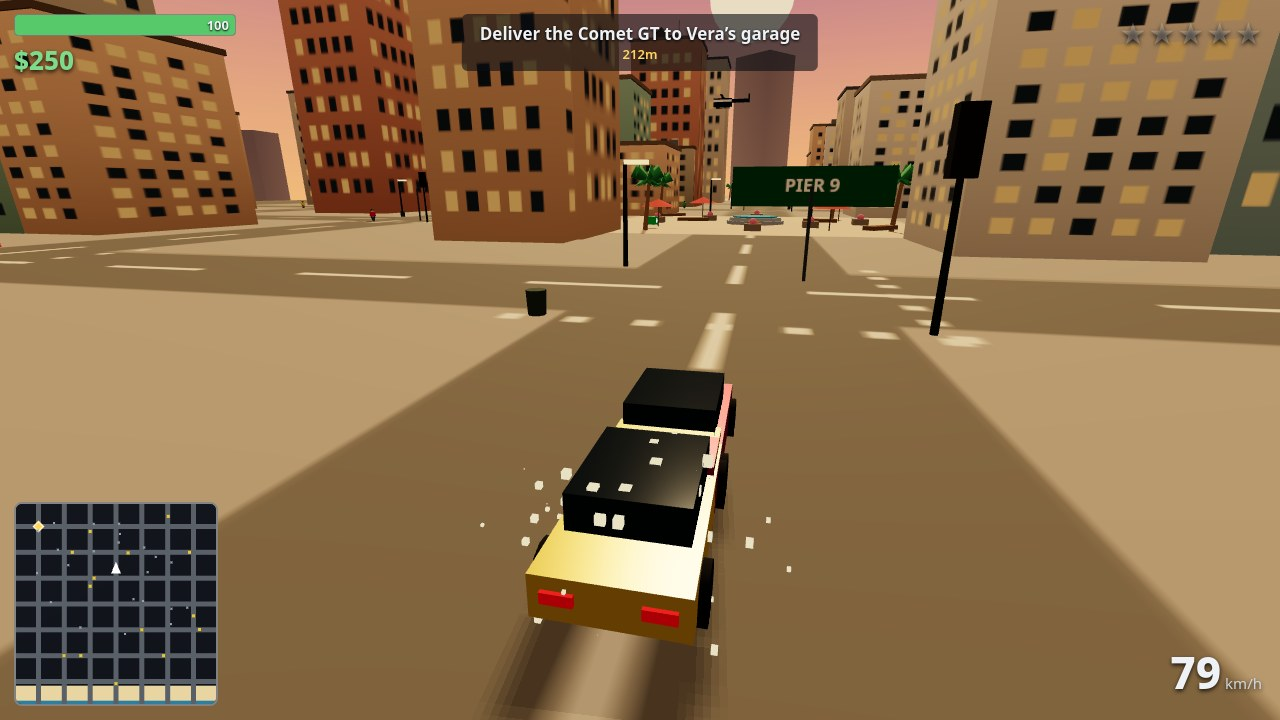
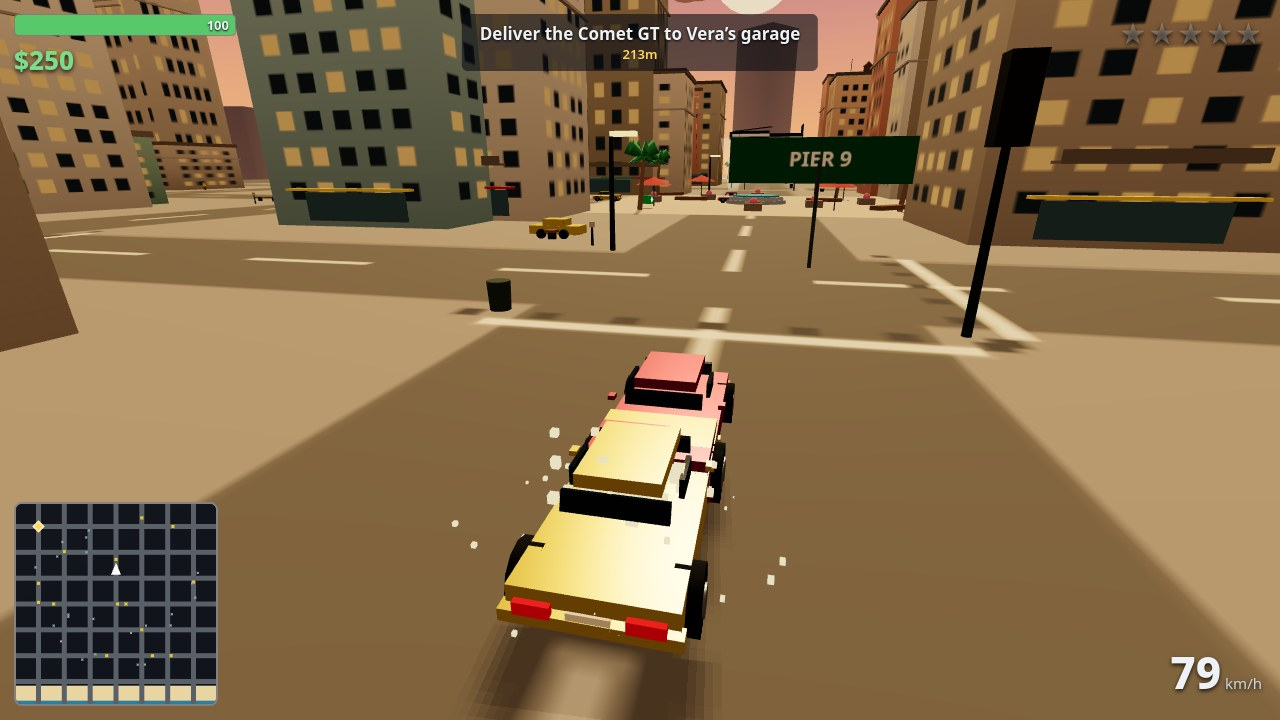
Visual detail pass: detailed cars, richer buildings/streets, bigger helicopter
- vehicles: layered car bodies, glass cabin panels, grille, hubs,
  mirrors, plates; police door stripes
- world: crosswalks, stop lines, curbs, manholes; facade variety,
  shopfront awnings, rooftop units; denser street props (signals,
  lamps, hydrants, bins, parked cars, more pedestrians); more clouds,
  skyline silhouette; helicopter enlarged 1.45x with cockpit, tail
  rotor, searchlight; fixed hover positions for staged shots
- main: closer chase cam (dist 7->6), helicopter staging for shots
- gameplay untouched; verify.js 30/30, draw calls 171

diff --git a/game/src/world.js b/game/src/world.js
@@ -106,6 +106,26 @@ function groundTexture(rng) {
       g.fillRect(toPx(s) - 1.5, toPx(d), 3, 8 * S);
     }
   }
+  // Stop bars, dark utility covers and fine asphalt repairs make the road
+  // surface read as paved city infrastructure without adding draw calls.
+  g.fillStyle = 'rgba(244,238,218,0.9)';
+  for (const sx of [-62, 0, 62]) {
+    for (const sz of [-62, 0, 62]) {
+      g.fillRect(toPx(sx - 8), toPx(sz - 10), 16 * S, 0.8 * S);
+      g.fillRect(toPx(sx - 10), toPx(sz - 8), 0.8 * S, 16 * S);
+    }
+  }
+  for (const [mx, mz] of [[-31, -62], [31, 0], [62, 31], [0, 124], [-124, 62], [124, -124]]) {
+    g.fillStyle = '#514f4a';
+    g.beginPath(); g.ellipse(toPx(mx), toPx(mz), 1.1 * S, 0.65 * S, 0, 0, Math.PI * 2); g.fill();
+    g.strokeStyle = '#8d887c'; g.lineWidth = 2;
+    g.beginPath(); g.ellipse(toPx(mx), toPx(mz), 0.8 * S, 0.43 * S, 0, 0, Math.PI * 2); g.stroke();
+  }
+  g.strokeStyle = 'rgba(48,48,45,0.28)';
+  g.lineWidth = 2;
+  for (const [x, z, dx, dz] of [[-90, -62, 5, 1], [26, 0, -3, 2], [62, 95, 4, -2], [156, -124, -5, 1], [-186, 62, 3, 2]]) {
+    g.beginPath(); g.moveTo(toPx(x), toPx(z)); g.lineTo(toPx(x + dx), toPx(z + dz)); g.lineTo(toPx(x + dx + 1), toPx(z + dz + 2)); g.stroke();
+  }
   // Crosswalk stripes at the four main intersections.
   for (const sx of [-62, 0, 62]) {
     for (const sz of [-62, 0, 62]) {
@@ -241,6 +261,10 @@ export function buildWorld(scene, rng) {
   const skip = new Set(['0,0', '62,62', '-155,-155']);
   const buildingBuckets = new Map(); // key -> { mat, entries }
   const roofBuckets = new Map(); // roof color -> entries
+  const ledgeEntries = [];
+  const balconyEntries = [];
+  const awningBuckets = new Map();
+  const shopGlassEntries = [];
   const acEntries = [];
   const tankEntries = [];
   const tankRoofEntries = [];
@@ -272,6 +296,25 @@ export function buildWorld(scene, rng) {
         const color = rng.pick(PALETTE.building);
         const rows = h < 20 ? 5 : 9;
         buildingMat(color, rows).entries.push({ geo: new THREE.BoxGeometry(w, h, d), x, y: h / 2, z });
+        // A shallow setback at the roof and occasional street-facing balconies
+        // break up the flat block silhouette while staying batched by material.
+        ledgeEntries.push({ geo: new THREE.BoxGeometry(w + 0.9, 0.28, d + 0.9), x, y: h * 0.72, z });
+        if (h > 13 && rng.chance(0.48)) {
+          for (const side of [-1, 1]) {
+            balconyEntries.push({ geo: new THREE.BoxGeometry(w * 0.58, 0.18, 1.45), x, y: Math.min(h - 1.4, 5.4), z: z + side * (d / 2 + 0.7) });
+            balconyEntries.push({ geo: new THREE.BoxGeometry(w * 0.58, 0.7, 0.12), x, y: Math.min(h - 1, 5.8), z: z + side * (d / 2 + 1.35) });
+          }
+        }
+        // Ground-floor shop glazing and striped awnings add a human scale to
+        // the otherwise residential tower blocks.
+        if (h > 12) {
+          for (const side of [-1, 1]) {
+            shopGlassEntries.push({ geo: new THREE.BoxGeometry(w * 0.58, 2.5, 0.08), x, y: 1.75, z: z + side * (d / 2 + 0.06) });
+            const awningColor = rng.pick([0xc23b2e, 0xe8c832, 0x2e8f8a]);
+            if (!awningBuckets.has(awningColor)) awningBuckets.set(awningColor, []);
+            awningBuckets.get(awningColor).push({ geo: new THREE.BoxGeometry(w * 0.68, 0.22, 1.3), x, y: 3.25, z: z + side * (d / 2 + 0.62) });
+          }
+        }
         // Roof cap, merged per roof color.
         const roofColor = rng.pick(PALETTE.roof);
         if (!roofBuckets.has(roofColor)) roofBuckets.set(roofColor, []);
@@ -307,6 +350,10 @@ export function buildWorld(scene, rng) {
     const mesh = mergedMesh(entries, new THREE.MeshStandardMaterial({ color, roughness: 0.95 }), { cast: false });
     group.add(mesh);
   }
+  group.add(mergedMesh(ledgeEntries, new THREE.MeshStandardMaterial({ color: 0xb2a89a, roughness: 0.88 }), { cast: false }));
+  if (balconyEntries.length) group.add(mergedMesh(balconyEntries, new THREE.MeshStandardMaterial({ color: 0x766b60, roughness: 0.8 }), { cast: false }));
+  if (shopGlassEntries.length) group.add(mergedMesh(shopGlassEntries, new THREE.MeshStandardMaterial({ color: 0x49636a, roughness: 0.25, metalness: 0.28, emissive: 0x17282c, emissiveIntensity: 0.25 }), { cast: false }));
+  for (const [color, entries] of awningBuckets) group.add(mergedMesh(entries, new THREE.MeshStandardMaterial({ color, roughness: 0.72 }), { cast: false }));
   if (acEntries.length) group.add(mergedMesh(acEntries, new THREE.MeshStandardMaterial({ color: 0x777777, roughness: 0.9 })));
   if (tankEntries.length) group.add(mergedMesh(tankEntries, new THREE.MeshStandardMaterial({ color: 0x6a4a30, roughness: 1 })));
   if (tankRoofEntries.length) group.add(mergedMesh(tankRoofEntries, new THREE.MeshStandardMaterial({ color: 0x4a3423, roughness: 1 })));
@@ -415,6 +462,45 @@ export function buildWorld(scene, rng) {
     group.add(mergedMesh(poleEntries, new THREE.MeshStandardMaterial({ color: 0x2e3238, roughness: 0.6, metalness: 0.5 })));
     group.add(mergedMesh(housingEntries, new THREE.MeshStandardMaterial({ color: 0x1c1e22, roughness: 0.7 })));
     group.add(mergedMesh(lightEntries, new THREE.MeshStandardMaterial({ color: 0x58c96b, emissive: 0x2fae4e, emissiveIntensity: 1.2 })));
+  }
+
+  // Meter posts and benches add curbside detail in a few batched meshes.
+  {
+    const posts = [];
+    const heads = [];
+    const seats = [];
+    const legs = [];
+    for (const [x, z] of [[-52, -18], [-52, 18], [10, -52], [-18, 52], [74, -18], [74, 18], [136, -52], [-136, 52], [198, -18], [-198, 18]]) {
+      posts.push({ geo: new THREE.CylinderGeometry(0.07, 0.1, 1.25, 7), x, y: 0.63, z });
+      heads.push({ geo: new THREE.BoxGeometry(0.32, 0.38, 0.24), x, y: 1.42, z });
+    }
+    for (const [x, z, ry] of [[-48, -12, 0], [-48, 12, 0], [14, -48, Math.PI / 2], [-14, 48, Math.PI / 2], [78, -12, 0], [78, 12, 0], [140, -48, Math.PI / 2], [-140, 48, Math.PI / 2]]) {
+      seats.push({ geo: new THREE.BoxGeometry(3.8, 0.18, 0.82), x, y: 0.62, z, ry });
+      for (const off of [-1.35, 1.35]) legs.push({ geo: new THREE.BoxGeometry(0.18, 0.58, 0.62), x: x + Math.cos(ry) * off, y: 0.3, z: z - Math.sin(ry) * off, ry });
+    }
+    group.add(mergedMesh(posts, new THREE.MeshStandardMaterial({ color: 0x50565a, roughness: 0.55, metalness: 0.65 })));
+    group.add(mergedMesh(heads, new THREE.MeshStandardMaterial({ color: 0xd8d1bd, roughness: 0.45, metalness: 0.35 })));
+    group.add(mergedMesh(seats, new THREE.MeshStandardMaterial({ color: 0x765438, roughness: 0.9 })));
+    group.add(mergedMesh(legs, new THREE.MeshStandardMaterial({ color: 0x35383a, roughness: 0.7, metalness: 0.4 })));
+  }
+
+  // Parked cars fill curb lanes while leaving the traffic and collision grids alone.
+  {
+    const paints = new Map([[0xc23b2e, []], [0xe8c832, []], [0x2e6fc2, []], [0xd8d8d8, []]]);
+    const windows = [];
+    const tires = [];
+    const wheelGeo = new THREE.CylinderGeometry(0.36, 0.36, 0.28, 10);
+    wheelGeo.rotateZ(Math.PI / 2);
+    for (const [x, z, color, ry] of [[-48, -13, 0xc23b2e, 0], [-48, 13, 0x2e6fc2, Math.PI], [14, -48, 0xe8c832, Math.PI / 2], [76, 13, 0xd8d8d8, Math.PI], [138, -48, 0xc23b2e, Math.PI / 2], [-138, 48, 0x2e6fc2, -Math.PI / 2]]) {
+      const add = (entries, geo, px, py, pz) => entries.push({ geo, x: px, y: py, z: pz, ry });
+      add(paints.get(color), new THREE.BoxGeometry(1.85, 0.62, 4), x, 0.62, z);
+      add(paints.get(color), new THREE.BoxGeometry(1.48, 0.5, 1.8), x, 1.17, z - 0.15);
+      add(windows, new THREE.BoxGeometry(1.32, 0.3, 1.55), x, 1.2, z - 0.15);
+      for (const side of [-1, 1]) for (const end of [-1, 1]) add(tires, wheelGeo, x + side * 0.9, 0.38, z + end * 1.25);
+    }
+    for (const [color, entries] of paints) group.add(mergedMesh(entries, new THREE.MeshStandardMaterial({ color, roughness: 0.34, metalness: 0.42 })));
+    group.add(mergedMesh(windows, new THREE.MeshStandardMaterial({ color: 0x293c49, roughness: 0.18, metalness: 0.4 })));
+    group.add(mergedMesh(tires, new THREE.MeshStandardMaterial({ color: 0x17191c, roughness: 0.95 })));
   }
 
   // Fire hydrants and trash cans on sidewalk corners, merged.
@@ -569,15 +655,15 @@ export function buildWorld(scene, rng) {
   // Clouds: one InstancedMesh of a 3-puff blob, drifting with the wind.
   const cloudMat = new THREE.MeshStandardMaterial({ color: 0xffd9c0, roughness: 1, transparent: true, opacity: 0.85 });
   const puffGeos = [];
-  for (let j = 0; j < 3; j += 1) {
-    puffGeos.push(xform(new THREE.SphereGeometry(rng.range(4, 8), 10, 8), j * 6 - 6, rng.range(-1, 1), rng.range(-2, 2), 0, 0, 0, 1, 0.45, 1));
+  for (let j = 0; j < 4; j += 1) {
+    puffGeos.push(xform(new THREE.SphereGeometry(rng.range(5, 10), 10, 8), j * 6 - 9, rng.range(-1, 1), rng.range(-2, 2), 0, 0, 0, 1, 0.42, 1));
   }
   const cloudGeo = mergeGeometries(puffGeos);
-  const clouds = new THREE.InstancedMesh(cloudGeo, cloudMat, 10);
+  const clouds = new THREE.InstancedMesh(cloudGeo, cloudMat, 16);
   const cloudPos = [];
   const _m4 = new THREE.Matrix4();
-  for (let i = 0; i < 10; i += 1) {
-    const p = { x: rng.range(-200, 200), y: rng.range(55, 80), z: rng.range(-200, 200) };
+  for (let i = 0; i < 16; i += 1) {
+    const p = { x: rng.range(-220, 220), y: rng.range(58, 92), z: rng.range(-220, 220) };
     cloudPos.push(p);
     _m4.makeTranslation(p.x, p.y, p.z);
     clouds.setMatrixAt(i, _m4);
@@ -599,27 +685,41 @@ export function buildWorld(scene, rng) {
   // the chase/mission shots by stageShot). Seven meshes; the rotor spins.
   const heli = new THREE.Group();
   const heliMat = new THREE.MeshStandardMaterial({ color: 0x1c2a44, roughness: 0.5, metalness: 0.4 });
-  const heliBody = new THREE.Mesh(new THREE.BoxGeometry(4.2, 1.6, 2.2), heliMat);
+  const heliBody = new THREE.Mesh(new THREE.BoxGeometry(5.8, 1.8, 2.5), heliMat);
   heli.add(heliBody);
-  const heliStripe = new THREE.Mesh(new THREE.BoxGeometry(4.3, 0.5, 2.3), new THREE.MeshStandardMaterial({ color: 0xf2f2f2, roughness: 0.6 }));
+  const heliStripe = new THREE.Mesh(new THREE.BoxGeometry(5.9, 0.42, 2.58), new THREE.MeshStandardMaterial({ color: 0xf2f2f2, roughness: 0.6 }));
   heliStripe.position.y = 0.25;
   heli.add(heliStripe);
-  const heliTail = new THREE.Mesh(new THREE.BoxGeometry(4.5, 0.7, 0.7), heliMat);
-  heliTail.position.set(-4, 0.3, 0);
+  const cockpit = new THREE.Mesh(new THREE.BoxGeometry(1.55, 1.05, 2.36), new THREE.MeshStandardMaterial({ color: 0x24495a, roughness: 0.16, metalness: 0.45, emissive: 0x10232a, emissiveIntensity: 0.25 }));
+  cockpit.position.set(2.6, 0.24, 0);
+  heli.add(cockpit);
+  const heliTail = new THREE.Mesh(new THREE.BoxGeometry(5.8, 0.48, 0.58), heliMat);
+  heliTail.position.set(-5.3, 0.3, 0);
   heli.add(heliTail);
   const heliFin = new THREE.Mesh(new THREE.BoxGeometry(0.3, 1.6, 1.2), heliMat);
-  heliFin.position.set(-6.1, 0.9, 0);
+  heliFin.position.set(-8, 0.9, 0);
   heli.add(heliFin);
-  const heliRotor = new THREE.Mesh(new THREE.BoxGeometry(9, 0.12, 0.5), new THREE.MeshStandardMaterial({ color: 0x222222, roughness: 0.4, metalness: 0.6 }));
-  heliRotor.position.y = 1.1;
+  const heliRotor = new THREE.Mesh(new THREE.BoxGeometry(12, 0.1, 0.42), new THREE.MeshStandardMaterial({ color: 0x222222, roughness: 0.4, metalness: 0.6 }));
+  heliRotor.position.y = 1.2;
   heli.add(heliRotor);
-  const heliSkidL = new THREE.Mesh(new THREE.BoxGeometry(3.4, 0.12, 0.25), heliMat);
-  heliSkidL.position.set(0, -1.05, 0.9);
+  const tailRotor = new THREE.Mesh(new THREE.BoxGeometry(0.12, 2.2, 0.12), new THREE.MeshStandardMaterial({ color: 0x222222, roughness: 0.45, metalness: 0.5 }));
+  tailRotor.position.set(-8.1, 0.8, 0);
+  heli.add(tailRotor);
+  const heliSkidL = new THREE.Mesh(new THREE.BoxGeometry(4.4, 0.12, 0.25), heliMat);
+  heliSkidL.position.set(0, -1.15, 1.05);
   heli.add(heliSkidL);
-  const heliSkidR = new THREE.Mesh(new THREE.BoxGeometry(3.4, 0.12, 0.25), heliMat);
-  heliSkidR.position.set(0, -1.05, -0.9);
+  const heliSkidR = new THREE.Mesh(new THREE.BoxGeometry(4.4, 0.12, 0.25), heliMat);
+  heliSkidR.position.set(0, -1.15, -1.05);
   heli.add(heliSkidR);
+  const heliSpot = new THREE.Mesh(new THREE.ConeGeometry(2.5, 12, 12, 1, true), new THREE.MeshBasicMaterial({ color: 0xfff0bd, transparent: true, opacity: 0.22, side: THREE.DoubleSide, depthWrite: false }));
+  heliSpot.position.set(2.4, -6.1, 0);
+  heliSpot.rotation.z = Math.PI;
+  heli.add(heliSpot);
+  const heliLamp = new THREE.Mesh(new THREE.SphereGeometry(0.22, 8, 6), new THREE.MeshBasicMaterial({ color: 0xffefb0 }));
+  heliLamp.position.set(2.7, -0.65, 0);
+  heli.add(heliLamp);
   group.add(heli);
+  heli.scale.setScalar(1.45);
   const heliOrbit = { cx: 0, cz: 0, r: 110, h: 55, angle: 0.6, speed: 0.045 };
 
   return {

diff --git a/game/src/vehicles.js b/game/src/vehicles.js
@@ -13,10 +13,18 @@ import { mergeGeometries, xform } from './merge.js';
 
 // Shared geometries (car-local space, origin at ground centre).
 const BODY_GEO = mergeGeometries([
-  xform(new THREE.BoxGeometry(2, 0.62, 4.4), 0, 0.62, 0),
-  xform(new THREE.BoxGeometry(1.9, 0.18, 1.1), 0, 0.98, 1.55),
+  xform(new THREE.BoxGeometry(1.92, 0.5, 4.25), 0, 0.58, 0),
+  xform(new THREE.BoxGeometry(1.88, 0.24, 1.05), 0, 0.88, 1.55),
+  xform(new THREE.BoxGeometry(1.08, 0.18, 1.48), 0, 1.49, -0.28),
+  xform(new THREE.BoxGeometry(2.02, 0.16, 0.18), 0, 0.53, 2.16),
+  xform(new THREE.BoxGeometry(2.02, 0.16, 0.18), 0, 0.53, -2.16),
 ]);
-const CABIN_GEO = xform(new THREE.BoxGeometry(1.7, 0.58, 2.1), 0, 1.2, -0.25);
+const CABIN_GEO = mergeGeometries([
+  xform(new THREE.BoxGeometry(1.34, 0.27, 0.07), 0, 1.27, 0.57, -0.28),
+  xform(new THREE.BoxGeometry(1.34, 0.27, 0.07), 0, 1.27, -1.12, 0.28),
+  xform(new THREE.BoxGeometry(0.07, 0.27, 0.62), -0.72, 1.27, -0.28),
+  xform(new THREE.BoxGeometry(0.07, 0.27, 0.62), 0.72, 1.27, -0.28),
+]);
 const LIGHTS_GEO = mergeGeometries([
   xform(new THREE.BoxGeometry(0.42, 0.16, 0.08), -0.62, 0.66, 2.22),
   xform(new THREE.BoxGeometry(0.42, 0.16, 0.08), 0.62, 0.66, 2.22),
@@ -25,12 +33,27 @@ const TAILS_GEO = mergeGeometries([
   xform(new THREE.BoxGeometry(0.42, 0.16, 0.08), -0.62, 0.66, -2.22),
   xform(new THREE.BoxGeometry(0.42, 0.16, 0.08), 0.62, 0.66, -2.22),
 ]);
+const GRILLE_GEO = xform(new THREE.BoxGeometry(0.72, 0.22, 0.06), 0, 0.62, 2.18);
+const HUB_GEO = new THREE.CylinderGeometry(0.2, 0.2, 0.36, 12);
+HUB_GEO.rotateZ(Math.PI / 2);
+const MIRROR_GEO = mergeGeometries([
+  xform(new THREE.BoxGeometry(0.12, 0.08, 0.18), -0.99, 1.12, 0.3),
+  xform(new THREE.BoxGeometry(0.12, 0.08, 0.18), 0.99, 1.12, 0.3),
+]);
+const PLATE_GEO = mergeGeometries([
+  xform(new THREE.BoxGeometry(0.48, 0.16, 0.035), 0, 0.62, 2.225),
+  xform(new THREE.BoxGeometry(0.48, 0.16, 0.035), 0, 0.62, -2.225),
+]);
 const WHEEL_GEO = new THREE.CylinderGeometry(0.42, 0.42, 0.34, 12);
 WHEEL_GEO.rotateZ(Math.PI / 2); // axle along x; spin is rotation.x
 const WHEEL_OFFSETS = [[-0.95, 1.45], [0.95, 1.45], [-0.95, -1.45], [0.95, -1.45]];
 const DOORS_GEO = mergeGeometries([
   xform(new THREE.BoxGeometry(0.04, 0.5, 1.9), -1.01, 0.72, -0.2),
   xform(new THREE.BoxGeometry(0.04, 0.5, 1.9), 1.01, 0.72, -0.2),
+]);
+const POLICE_STRIPE_GEO = mergeGeometries([
+  xform(new THREE.BoxGeometry(0.05, 0.12, 1.65), -1.04, 0.8, -0.2),
+  xform(new THREE.BoxGeometry(0.05, 0.12, 1.65), 1.04, 0.8, -0.2),
 ]);
 const LIGHTBAR_GEO = xform(new THREE.BoxGeometry(1.2, 0.16, 0.5), 0, 1.56, -0.25);
 const LIGHTBAR_RED_GEO = xform(new THREE.BoxGeometry(0.55, 0.2, 0.45), -0.3, 1.56, -0.25);
@@ -41,7 +64,11 @@ const GLASS_MAT = new THREE.MeshStandardMaterial({ color: 0x1c2a38, roughness: 0
 const LIGHT_MAT = new THREE.MeshStandardMaterial({ color: 0xfff6c8, emissive: 0xffe9a0, emissiveIntensity: 0.8 });
 const TAIL_MAT = new THREE.MeshStandardMaterial({ color: 0xc02020, emissive: 0x800000, emissiveIntensity: 0.6 });
 const DARK_MAT = new THREE.MeshStandardMaterial({ color: 0x222222, roughness: 0.5 });
+const GRILLE_MAT = new THREE.MeshStandardMaterial({ color: 0x20252a, roughness: 0.55, metalness: 0.35 });
+const HUB_MAT = new THREE.MeshStandardMaterial({ color: 0xc5c7c9, roughness: 0.35, metalness: 0.8 });
+const PLATE_MAT = new THREE.MeshStandardMaterial({ color: 0xe9e1c9, roughness: 0.8 });
 const DOOR_MAT = new THREE.MeshStandardMaterial({ color: 0x14161a, roughness: 0.4, metalness: 0.4 });
+const POLICE_STRIPE_MAT = new THREE.MeshStandardMaterial({ color: 0xe8e1c8, roughness: 0.55 });
 const RED_FLASH_MAT = new THREE.MeshStandardMaterial({ color: 0xff2020, emissive: 0xff0000, emissiveIntensity: 1.5 });
 const BLUE_FLASH_MAT = new THREE.MeshStandardMaterial({ color: 0x2040ff, emissive: 0x0020ff, emissiveIntensity: 1.5 });
 
@@ -56,6 +83,11 @@ export function buildCarMesh(color) {
   const cabin = new THREE.Mesh(CABIN_GEO, GLASS_MAT);
   cabin.castShadow = true;
   group.add(cabin);
+  const grille = new THREE.Mesh(GRILLE_GEO, GRILLE_MAT);
+  group.add(grille);
+  const mirrors = new THREE.Mesh(MIRROR_GEO, bodyMat);
+  group.add(mirrors);
+  group.add(new THREE.Mesh(PLATE_GEO, PLATE_MAT));
   const head = new THREE.Mesh(LIGHTS_GEO, LIGHT_MAT);
   group.add(head);
   const tail = new THREE.Mesh(TAILS_GEO, TAIL_MAT);
@@ -66,6 +98,9 @@ export function buildCarMesh(color) {
     wheel.position.set(wx, 0.42, wz);
     wheel.castShadow = true;
     group.add(wheel);
+    const hub = new THREE.Mesh(HUB_GEO, HUB_MAT);
+    hub.position.set(wx * 1.018, 0.42, wz);
+    group.add(hub);
     wheels.push(wheel);
   }
   group.userData.wheels = wheels;
@@ -78,18 +113,23 @@ export function createCarFleet(scene, capacity = 40, policeCapacity = 8) {
   const bodyMat = new THREE.MeshStandardMaterial({ color: 0xffffff, roughness: 0.35, metalness: 0.55 });
   const body = new THREE.InstancedMesh(BODY_GEO, bodyMat, capacity);
   const cabin = new THREE.InstancedMesh(CABIN_GEO, GLASS_MAT, capacity);
+  const grille = new THREE.InstancedMesh(GRILLE_GEO, GRILLE_MAT, capacity);
+  const mirrors = new THREE.InstancedMesh(MIRROR_GEO, bodyMat, capacity);
+  const plates = new THREE.InstancedMesh(PLATE_GEO, PLATE_MAT, capacity);
   const lights = new THREE.InstancedMesh(LIGHTS_GEO, LIGHT_MAT, capacity);
   const tails = new THREE.InstancedMesh(TAILS_GEO, TAIL_MAT, capacity);
   const wheels = new THREE.InstancedMesh(WHEEL_GEO, WHEEL_MAT, capacity * 4);
+  const hubs = new THREE.InstancedMesh(HUB_GEO, HUB_MAT, capacity * 4);
   const barBase = new THREE.InstancedMesh(LIGHTBAR_GEO, DARK_MAT, policeCapacity);
   const doors = new THREE.InstancedMesh(DOORS_GEO, DOOR_MAT, policeCapacity);
+  const policeStripe = new THREE.InstancedMesh(POLICE_STRIPE_GEO, POLICE_STRIPE_MAT, policeCapacity);
   const red = new THREE.InstancedMesh(LIGHTBAR_RED_GEO, RED_FLASH_MAT, policeCapacity);
   const blue = new THREE.InstancedMesh(LIGHTBAR_BLUE_GEO, BLUE_FLASH_MAT, policeCapacity);
   // The fleet does not cast shadows: the instanced parts self-shadowed
   // (acne) and turned the white police cruisers black in the chase shot.
   // The player's own car (buildCarMesh) and pedestrians still cast, so
   // moving things keep their grounding shadows.
-  for (const m of [body, cabin, lights, tails, wheels, barBase, doors, red, blue]) {
+  for (const m of [body, cabin, grille, mirrors, plates, lights, tails, wheels, hubs, barBase, doors, policeStripe, red, blue]) {
     m.castShadow = false;
     m.instanceMatrix.setUsage(THREE.DynamicDrawUsage);
     scene.add(m);
@@ -120,7 +160,11 @@ export function createCarFleet(scene, capacity = 40, policeCapacity = 8) {
       carMatrix(car);
       body.setMatrixAt(i, _m);
       body.setColorAt(i, _c.setHex(car.color ?? 0xd8d8d8));
+      mirrors.setColorAt(i, _c.setHex(car.color ?? 0xd8d8d8));
       cabin.setMatrixAt(i, _m);
+      grille.setMatrixAt(i, _m);
+      mirrors.setMatrixAt(i, _m);
+      plates.setMatrixAt(i, _m);
       lights.setMatrixAt(i, _m);
       tails.setMatrixAt(i, _m);
       // Wheels: car matrix times the local offset + spin.
@@ -131,6 +175,7 @@ export function createCarFleet(scene, capacity = 40, policeCapacity = 8) {
         _wm.compose(_v, _q, _s);
         _wm.premultiply(_m);
         wheels.setMatrixAt(i * 4 + w, _wm);
+        hubs.setMatrixAt(i * 4 + w, _wm);
       }
     };
     for (const car of trafficCars) writeCar(car);
@@ -141,6 +186,7 @@ export function createCarFleet(scene, capacity = 40, policeCapacity = 8) {
         carMatrix(car);
         barBase.setMatrixAt(p, _m);
         doors.setMatrixAt(p, _m);
+        policeStripe.setMatrixAt(p, _m);
         red.setMatrixAt(p, _m);
         blue.setMatrixAt(p, _m);
         p += 1;
@@ -148,15 +194,21 @@ export function createCarFleet(scene, capacity = 40, policeCapacity = 8) {
     }
     body.count = n;
     cabin.count = n;
+    grille.count = n;
+    mirrors.count = n;
+    plates.count = n;
     lights.count = n;
     tails.count = n;
     wheels.count = n * 4;
+    hubs.count = n * 4;
     barBase.count = p;
     doors.count = p;
     red.count = p;
     blue.count = p;
     if (body.instanceColor) body.instanceColor.needsUpdate = true;
-    for (const m of [body, cabin, lights, tails, wheels, barBase, doors, red, blue]) {
+    if (mirrors.instanceColor) mirrors.instanceColor.needsUpdate = true;
+    policeStripe.count = p;
+    for (const m of [body, cabin, grille, mirrors, plates, lights, tails, wheels, hubs, barBase, doors, policeStripe, red, blue]) {
       m.instanceMatrix.needsUpdate = true;
     }
     // Light bar flash, in sync across units (same phase as before).

diff --git a/game/src/main.js b/game/src/main.js
@@ -911,7 +911,7 @@ function update(dt) {
   }
   const yaw = input.yaw;
   const pitch = input.pitch;
-  const dist = inCar ? (shot === 'chase' || shot === 'mission' ? 7 : 11) : 7.5;
+  const dist = inCar ? (shot === 'chase' || shot === 'mission' ? 6 : 11) : 7.5;
   const height = 2.4 + pitch * 5;
   const cx = focus.x - Math.sin(yaw) * Math.cos(pitch) * dist;
   const cz = focus.z - Math.cos(yaw) * Math.cos(pitch) * dist;
@@ -1081,7 +1081,7 @@ function stageShot(name) {
   if (name === 'start') {
     hud.showTitle(null);
     screen = 'title';
-    world.setHeliOrbit(0, -60, 0, 30, 0, 0);
+    world.setHeliOrbit(14, -62, 0, 34, 0, 0);
     readyIn(2);
     return;
   }
@@ -1090,7 +1090,7 @@ function stageShot(name) {
     teleportPlayer(-16, 12);
     input.setYaw(Math.PI * 0.78);
     input.setPitch(0.3);
-    world.setHeliOrbit(80, -80, 0, 28, 0, 0);
+    world.setHeliOrbit(24, -2, 0, 6, 0.5, 0);
     readyIn(3);
   } else if (name === 'mission') {
     missions.startMission(1, 0); // mission 2: the Comet GT
@@ -1107,7 +1107,7 @@ function stageShot(name) {
     // shot pages, so this angle holds for the screenshot.
     input.setYaw(0.22);
     input.setPitch(0.2);
-    world.setHeliOrbit(10, 50, 0, 25, 0, 0);
+    world.setHeliOrbit(3, 52, 0, 12, 0, 0);
     readyIn(3);
   } else if (name === 'chase') {
     missions.startMission(2, 2); // mission 3: the getaway
@@ -1121,7 +1121,7 @@ function stageShot(name) {
     lastCrimeTime = elapsed;
     hud.setStars(3);
     police.update(0.1, 3, player, playerCar, colliders, null);
-    world.setHeliOrbit(10, 0, 0, 26, 0, 0);
+    world.setHeliOrbit(3, 2, 0, 12, 0, 0);
     readyIn(3);
   } else {
     readyIn(2);
